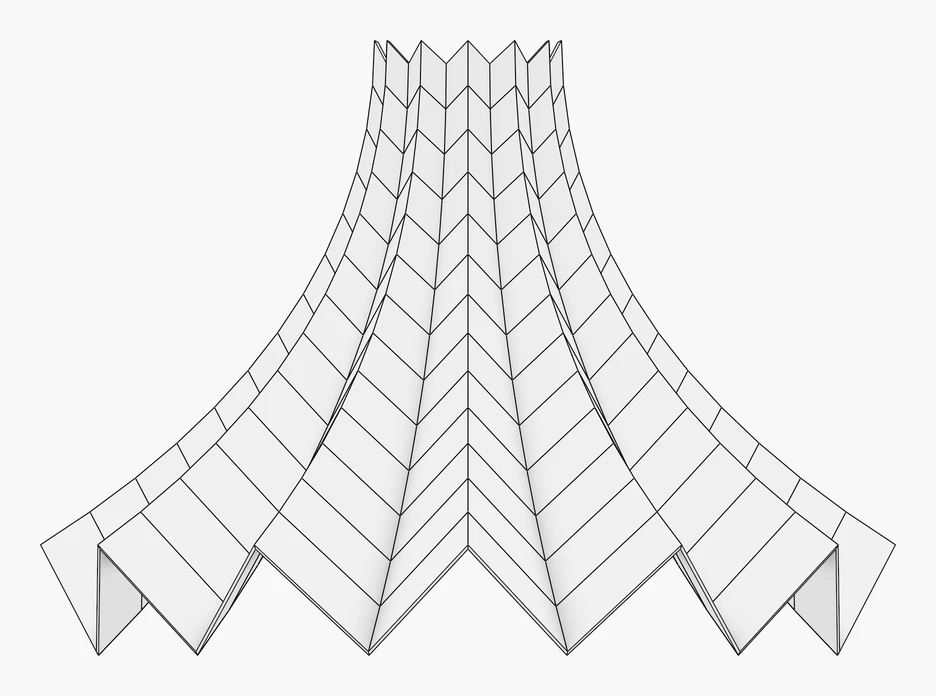
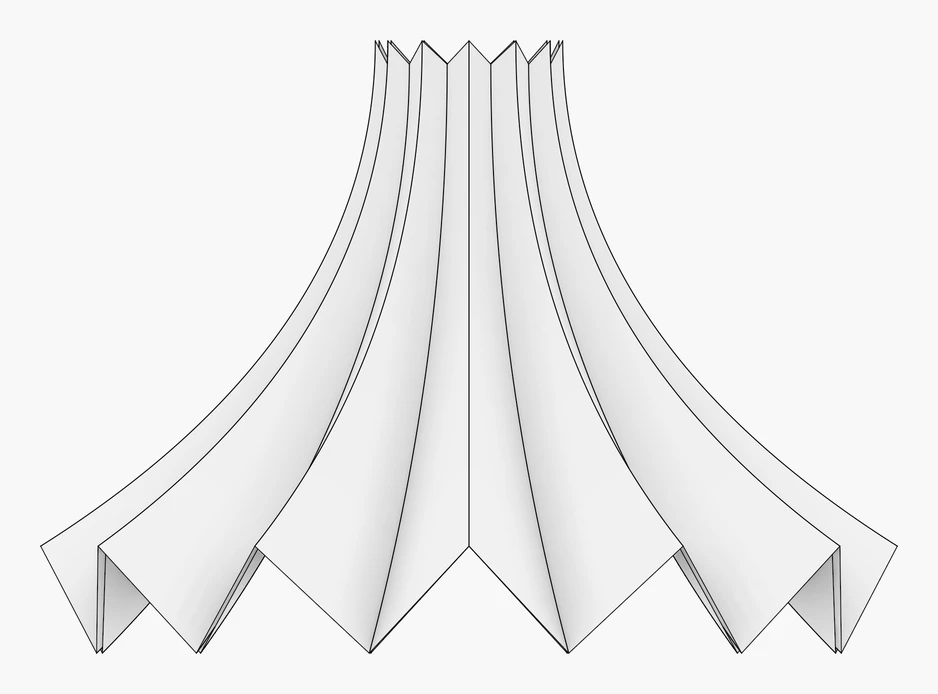
wood: CurvedFold as curved NURBS panels - every ridge and valley a NURBS curve through the rings, every fold strip one ruled NURBS surface with its inner face where the neighbours offset by the thickness meet, no facets

diff --git a/src/templates/folding/curved_fold.h b/src/templates/folding/curved_fold.h
@@ -1,30 +1,30 @@
 #pragma once
 #include "wood_session.h"
-#include "src/templates/template_chamfer.h"
+#include "primitives.h"
 
 using namespace session_cpp;
 using namespace wood_session;
 
 /// A curved folded tent roof after Knie's Zauberhut, Rapperswil (Blumer Lehmann, Carlos Martinez Architekten, 2020): a roof of 32 m
 /// diameter rising in a trumpet curve into a tower 26 m high, folded into sectors whose valleys run down to the columns and whose
-/// ridges end in a gable over the eaves, the folds shrinking into the tower. The curved folds are discretised in rings: every ring the
-/// same star of ridge and valley points around the axis scaled by the trumpet curve's radius and lifted to its height, the fold's
-/// depth and the valleys' inset scaling with it, so the two ring segments of a band between two rings are parallel and every band is a
-/// planar trapezoid, a ruled strip of the curved fold; a band whose segments are not parallel would fold into two planar triangles.
-/// Every plate is planar, whatever its thickness.
+/// ridges end in a gable over the eaves, the folds shrinking into the tower. Every ridge and valley is a smooth NURBS curve, a meridian
+/// interpolated through the rings, each ring the same star of ridge and valley points scaled by the trumpet curve's radius and lifted
+/// to its height; every fold strip between two neighbouring meridians is one curved panel, a ruled NURBS surface between them, its
+/// inner face the ruled surface between the inner meridians, where the two panels' faces offset by the thickness meet. No facet, no
+/// triangle: the panels are curved, as the 5 cm sheathing on the uniaxially curved glulam of the built roof.
 ///
-/// Fields: the plan, the curve, the fold and the thickness; the meridians, the mesh and the plates are in the session.
+/// Fields: the plan, the curve, the fold and the thickness; the meridians and the panels are in the session.
 class CurvedFold : public WoodSession {
 public:
     const size_t sectors; // Folds around the axis, a ridge and a valley each.
     const double radius; // mm, the eaves' radius at the ridges.
-    const double top_radius; // mm, the round tower's radius at the top.
+    const double top_radius; // mm, the tower's radius at the top.
     const double eave; // mm, the valleys' height at the eaves, on the columns.
     const double height; // mm, the tower's top.
     const double gable; // mm, how far a ridge rises over its valleys at the eaves, the fold's depth, scaling with the radius up the tower.
-    const double inset; // The valleys' radius inside the ridges' at the eaves, a fraction of the radius.
-    const size_t rings; // Rings from the eaves to the top, the curve's discretisation.
-    const double thickness; // mm, every plate.
+    const double inset; // The valleys' radius inside the ridges', a fraction of the radius.
+    const size_t rings; // Rings from the eaves to the top the meridians are interpolated through.
+    const double thickness; // mm, every panel.
 
     /// The curved fold as the session named name.
     explicit CurvedFold(
@@ -46,15 +46,14 @@ public:
     /// Not assigned, as it is not copied.
     CurvedFold& operator=(const CurvedFold&) = delete;
 
-    /// The folded mesh, the plates' outer faces, one face per plate.
-    const Mesh& mesh() const;
-
 private:
-    Mesh _mesh;
-
     /// Per ring from the eaves up its star of 2 sectors points, a ridge and a valley in turn: the trumpet curve's radius, flat at the
     /// eaves and vertical at the tower, its height, the fold's depth and the valleys' inset scaled with the radius.
     std::vector<std::vector<Point>> compute_rings() const;
+
+    /// The same points on the panels' inner faces: at every point the line where the two strips beside it, offset inwards by the
+    /// thickness, meet, cut by the point's level.
+    std::vector<std::vector<Point>> compute_inner_rings(const std::vector<std::vector<Point>>& stars) const;
 };
 
 inline CurvedFold::CurvedFold(
@@ -77,61 +76,40 @@ inline CurvedFold::CurvedFold(
       height(height),
       gable(gable),
       inset(inset),
-      rings(std::max<size_t>(rings, 2)),
+      rings(std::max<size_t>(rings, 3)),
       thickness(thickness) {
 
-    // meridians: the ridge and valley curves from the eaves to the top through every ring
-    const std::vector<std::vector<Point>> stars = compute_rings();
     const size_t count = 2 * sectors;
+    const std::vector<std::vector<Point>> stars = compute_rings();
+    const std::vector<std::vector<Point>> inner_stars = compute_inner_rings(stars);
+
+    // meridians: every ridge and valley a NURBS curve through the rings, on the outer and on the inner face
+    std::vector<NurbsCurve> outer;
+    std::vector<NurbsCurve> inner;
     const std::shared_ptr<TreeNode> meridians = add_group("meridians");
 
     for (size_t j = 0; j < count; j++) {
-        std::vector<Point> curve;
+        std::vector<Point> outer_points;
+        std::vector<Point> inner_points;
 
-        for (const std::vector<Point>& star : stars)
-            curve.push_back(star[j]);
-
-        add_polyline(Polyline(curve), meridians);
-    }
-
-    // mesh: per band between two rings and two meridians a planar quad where its ring segments are parallel, else two triangles
-    std::vector<Point> points;
-    std::vector<std::vector<size_t>> faces;
-
-    for (const std::vector<Point>& star : stars)
-        points.insert(points.end(), star.begin(), star.end());
-
-    for (size_t k = 0; k + 1 < stars.size(); k++)
-        for (size_t j = 0; j < count; j++) {
-            const size_t next = (j + 1) % count;
-            const size_t a = k * count + j;
-            const size_t b = k * count + next;
-            const size_t c = (k + 1) * count + next;
-            const size_t d = (k + 1) * count + j;
-            const Vector normal = (points[d] - points[a]).cross(points[b] - points[a]).normalized();
-
-            if (std::abs((points[c] - points[a]).dot(normal)) < 1.0) {
-                faces.push_back({a, d, c, b});
-                continue;
-            }
-
-            faces.push_back({a, d, c});
-            faces.push_back({a, c, b});
+        for (size_t k = 0; k < stars.size(); k++) {
+            outer_points.push_back(stars[k][j]);
+            inner_points.push_back(inner_stars[k][j]);
         }
 
-    _mesh = Mesh::from_vertices_and_faces(points, faces);
-    add_mesh(_mesh, add_group("mesh"));
+        outer.push_back(NurbsCurve::create_interpolated(outer_points));
+        inner.push_back(NurbsCurve::create_interpolated(inner_points));
+        add_polyline(Polyline(outer_points), meridians);
+    }
 
-    // plates: one plate per face, mitered at the folds; only at a node of three or more plates whose inner corners spread apart the
-    // corners are cut back, by just that spread
-    const std::shared_ptr<TreeNode> plates = add_group("plates");
+    // panels: every fold strip one curved panel, the ruled surface between its two meridians on the outer face and on the inner face
+    const std::shared_ptr<TreeNode> outer_faces = add_group("panels_outer");
+    const std::shared_ptr<TreeNode> inner_faces = add_group("panels_inner");
 
-    for (const std::shared_ptr<Plate>& plate : node_cut_plates(_mesh, thickness))
-        add(plate, plates);
-}
-
-inline const Mesh& CurvedFold::mesh() const {
-    return _mesh;
+    for (size_t j = 0; j < count; j++) {
+        add_nurbssurface(Primitives::create_ruled(outer[j], outer[(j + 1) % count]), outer_faces);
+        add_nurbssurface(Primitives::create_ruled(inner[j], inner[(j + 1) % count]), inner_faces);
+    }
 }
 
 inline std::vector<std::vector<Point>> CurvedFold::compute_rings() const {
@@ -158,4 +136,40 @@ inline std::vector<std::vector<Point>> CurvedFold::compute_rings() const {
     }
 
     return stars;
+}
+
+inline std::vector<std::vector<Point>> CurvedFold::compute_inner_rings(const std::vector<std::vector<Point>>& stars) const {
+
+    const size_t count = 2 * sectors;
+    std::vector<std::vector<Point>> inner;
+
+    for (size_t k = 0; k < stars.size(); k++) {
+        // the band below the last ring, the one above every other
+        const size_t band = std::min(k, stars.size() - 2);
+        const std::vector<Point>& low = stars[band];
+        const std::vector<Point>& high = stars[band + 1];
+        std::vector<Point> ring;
+
+        for (size_t j = 0; j < count; j++) {
+            // the strips before and after the point, their planes moved inwards by the thickness
+            std::array<Plane, 2> offsets;
+
+            for (size_t side = 0; side < 2; side++) {
+                const size_t a = (j + count - 1 + side) % count;
+                const size_t b = (a + 1) % count;
+                Vector normal = (high[a] - low[a]).cross(low[b] - low[a]);
+                normal.normalize_self();
+                offsets[side] = Plane::from_point_normal(low[a] + normal * thickness, normal);
+            }
+
+            const std::optional<Line> fold = Intersection::plane_plane(offsets[0], offsets[1]);
+            const Plane level = Plane::from_point_normal(stars[k][j], Vector(0.0, 0.0, 1.0));
+            const std::optional<Point> point = fold ? Intersection::line_plane(*fold, level, false) : std::nullopt;
+            ring.push_back(point.value_or(stars[k][j]));
+        }
+
+        inner.push_back(ring);
+    }
+
+    return inner;
 }

diff --git a/examples/templates_folding_37_curved_fold.cpp b/examples/templates_folding_37_curved_fold.cpp
@@ -5,20 +5,19 @@ using namespace session_cpp;
 using namespace wood_session;
 
 /// The curved folded tent roof of Knie's Zauberhut (Blumer Lehmann, 2020): twelve curved folds on a 32 m roof rising into a round
-/// tower 26 m high, a gable over the eaves between every two columns.
+/// tower 26 m high, a gable over the eaves between every two columns, every fold strip one curved NURBS panel.
 int main() {
 
     CurvedFold fold;
-    const std::vector<std::shared_ptr<Plate>> plates = fold.get_elements_numbered<Plate>("plate");
     std::cout << fold << std::endl;
-    std::cout << fmt::format("curved fold: {} sectors, {} plates\n", fold.sectors, plates.size());
+    std::cout << fmt::format("curved fold: {} sectors, {} curved panels\n", fold.sectors, 2 * fold.sectors);
     fold.pb_dump(pb_path("live"));
     return 0;
 }
 
 /*
 |||||||| DESCRIPTION ||||||||
-Step 37 of the folding templates: the curved folding of Knie's Zauberhut in Rapperswil (Blumer Lehmann with Carlos Martinez Architekten, 2020), a freestanding folded shell roof of 32 m diameter rising into a tower 26 m high with a round top of 7 m. Twelve sectors, their valleys running down to the columns at 4000 and their ridges ending in a gable 4000 over the eaves, the folds following a trumpet curve, flat at the eaves and vertical at the tower, their depth shrinking with the radius into the tower. The curves are discretised in fourteen rings, each the same star scaled, so every band between two rings is a planar trapezoid, a ruled strip of the curved fold: 312 plates 120 mm thick, mitered at every fold, their corners cut back only where three or more meet out of line. Each step is a group: meridians, mesh, plates.
+Step 37 of the folding templates: the curved folding of Knie's Zauberhut in Rapperswil (Blumer Lehmann with Carlos Martinez Architekten, 2020), a freestanding folded shell roof of 32 m diameter rising into a tower 26 m high with a round top of 7 m. Twelve sectors, their valleys running down to the columns at 4000 and their ridges ending in a gable 4000 over the eaves, the folds following a trumpet curve, flat at the eaves and vertical at the tower, their depth shrinking with the radius into the tower. Every ridge and valley is a NURBS curve interpolated through fourteen rings, each the same star scaled, and every fold strip between two of them one curved panel, a ruled NURBS surface, with its inner face 120 mm in, where the neighbouring panels offset by the thickness meet: 24 curved panels, no facets, mitered at every fold, their corners cut back only where three or more meet out of line. Each step is a group: meridians, panels_outer, panels_inner.
 
 |||||||| DIRECTORY ||||||||
 cd wood_research/wood

diff --git a/docs/templates/folding.md b/docs/templates/folding.md
@@ -16,7 +16,7 @@ The topology is the same in every system: plates one after another, each meeting
 | 232 | structure systems of folded triangular surfaces over square, triangular, pentagonal and hexagonal plans | [`TriangleFold`](#triangle_fold) |
 | 229 | fans from the corners to the cross, ridges rising toward the centre | [`FanFold`](#fan_fold) |
 | 220-233 | the remaining variants of every page | [every topology by page](#folding_variants) |
-| - | curved folding after Knie's Zauberhut (Blumer Lehmann, 2020) | [`CurvedFold`](#curved_fold) |
+| - | curved folding after Knie's Zauberhut (Blumer Lehmann, 2020), curved NURBS panels | [`CurvedFold`](#curved_fold) |
 | - | a free-form zigzag carried along an arch | [`ReflexFold`](#reflex_fold) |
 | - | a free-form fold of rhombi on a surface | [`DiamondMesh`](#diamond_mesh) |
 
@@ -452,7 +452,7 @@ TriangleFold fold(
 
 ## Curved folding {#curved_fold}
 
-The folded tent roof of Knie's Zauberhut in Rapperswil (Blumer Lehmann with Carlos Martinez Architekten, 2020; [project page](https://www.blumer-lehmann.com/bauprojekte-realisieren/bauen/free-form/knies-zauberhut.html)): a freestanding folded shell of 32 m diameter rising into a tower 26 m high with a round top of 7 m, its valleys running down to concrete columns, its ridges ending in a gable over the eaves between them (`folding/curved_fold.h`, example `templates_folding_37_curved_fold`). The curved folds are discretised in rings: every ring is the same star of ridge and valley points scaled by the trumpet curve's radius, flat at the eaves and vertical at the tower, and lifted to its height, the fold's depth and the valleys' inset scaling with it. The two ring segments of a band between two rings are therefore parallel, and every band is a planar trapezoid, a ruled strip of the curved fold.
+The folded tent roof of Knie's Zauberhut in Rapperswil (Blumer Lehmann with Carlos Martinez Architekten, 2020; [project page](https://www.blumer-lehmann.com/bauprojekte-realisieren/bauen/free-form/knies-zauberhut.html)): a freestanding folded shell of 32 m diameter rising into a tower 26 m high with a round top of 7 m, its valleys running down to concrete columns, its ridges ending in a gable over the eaves between them (`folding/curved_fold.h`, example `templates_folding_37_curved_fold`). Every ridge and valley is a smooth NURBS curve, a meridian interpolated through rings, each ring the same star of ridge and valley points scaled by the trumpet curve's radius, flat at the eaves and vertical at the tower, and lifted to its height. Every fold strip between two neighbouring meridians is one curved panel, a ruled NURBS surface between them (`Primitives::create_ruled`), with no facet and no triangle, as the 5 cm sheathing on the uniaxially curved glulam of the built roof; its inner face is the ruled surface between the inner meridians, where the two neighbouring strips offset by the thickness meet.
 
 ```cpp
 CurvedFold fold(
@@ -463,12 +463,12 @@ CurvedFold fold(
     26000.0,   // tower's top
     4000.0,    // gable: a ridge over its valleys at the eaves
     0.1,       // valleys' inset
-    14,        // rings
+    14,        // rings the meridians are interpolated through
     120.0      // thickness
 );
 ```
 
-![curved fold](templates/templates_folding_37_curved_fold_plates.webp)
+![curved fold](templates/templates_folding_37_curved_fold_panels_outer.webp)
 
 ![curved fold elevation](templates/templates_folding_37_curved_fold_elevation.webp)
 

diff --git a/docs/templates.md b/docs/templates.md
@@ -18,7 +18,7 @@ Generators under `src/templates/`, one folder per family (`shells/`, `folding/`,
 | [Triangle fold](@ref templates_folding) | `folding/triangle_fold.h` | `templates_folding_{20_triangle_square,...,23_triangle_hexagon}` | Engel p. 232: folded triangular surfaces over square, triangular, pentagonal and hexagonal plans |
 | [Fan fold](@ref templates_folding) | `folding/fan_fold.h` | `templates_folding_24_fan_fold` | Engel p. 229: fold lines fanning from the corners to the cross, ridges rising toward the centre |
 | [Folding variants](@ref templates_folding) | `folding/*.h` | `templates_folding_{25_one_fold,...,36_folded_truncated_pyramid}` | Engel pp. 220-233: the remaining variants of every page, one example each |
-| [Curved fold](@ref templates_folding) | `folding/curved_fold.h` | `templates_folding_37_curved_fold` | the curved folded tent roof of Knie's Zauberhut: twelve folds on a 32 m roof rising into a 26 m tower, every band a planar trapezoid |
+| [Curved fold](@ref templates_folding) | `folding/curved_fold.h` | `templates_folding_37_curved_fold` | the curved folded tent roof of Knie's Zauberhut: twelve folds on a 32 m roof rising into a 26 m tower, every fold strip one curved NURBS panel |
 | [VDA mesh](@ref templates_cross) | `cross/vda_mesh.h` | `templates_cross_1_vda_mesh` | one plate per face plus connector plates across every interior edge |
 | [Wall module](@ref templates_module) | `module/wall.h` | `templates_module_1_wall` | `Wall`: rails, studs, jamb studs, headers, sills and cripples as beams of one section, the studs on a 625 mm grid and jamb studs at every opening, one sheathing plate on each face with the openings cut out, a face contact between every member and panel that touch |
 | [Cassette shell](@ref templates_module) | `module/cassette_shell.h` | `templates_module_2_cassette_shell` | `CassetteShell`: per mesh face a hollow cassette, two thin plates and mitered edge beams cut on the bevel the cell shares with its neighbour, the contacts between cassettes detected |
